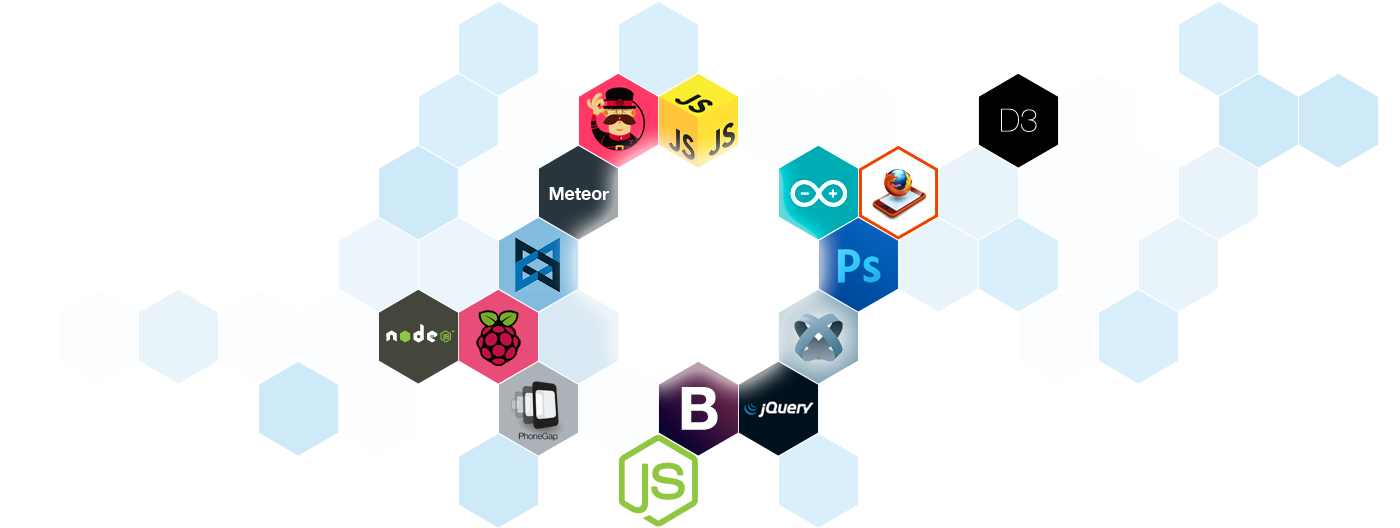
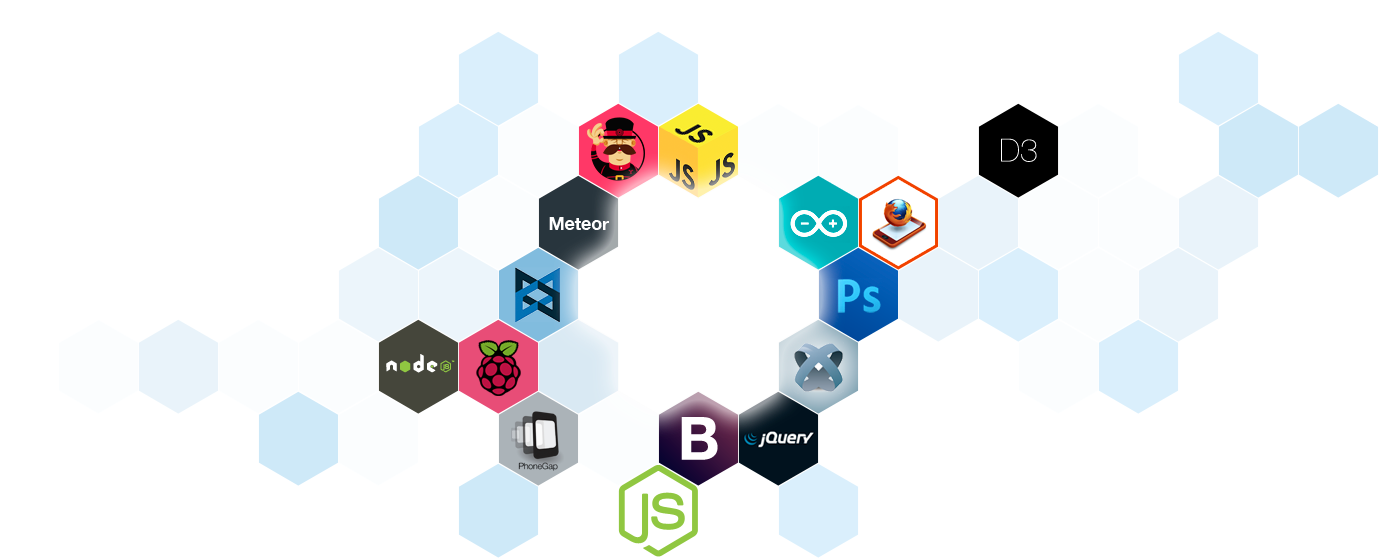
W-i-p for sticky navigation (not enabled yet).

diff --git a/static/css/320andup.css b/static/css/320andup.css
@@ -1860,6 +1860,9 @@ table tbody tr:hover th {
 .table-striped tbody tr:nth-child(odd) th {
   background-color: #c7ced6;
 }
+header {
+  position: relative;
+}
 h1 {
   text-align: center;
   line-height: 48px;
@@ -1870,6 +1873,7 @@ h1 {
   padding: 0;
   margin: 0;
   margin-bottom: 24px;
+  z-index: 2;
 }
 div#content {
   width: 100%;
@@ -1893,16 +1897,15 @@ header h1 {
   position: absolute;
   left: 50%;
   margin-left: -68px;
-  top: 110px;
+  top: 52px;
   background: none;
   border: none;
 }
 nav {
   padding: 0;
   background: rgba(255, 255, 255, 0.5);
-  border: 1px solid rgba(255, 255, 255, 0.75);
-  border-left: 0;
-  border-right: 0;
+  border: 0;
+  border-bottom: 1px solid rgba(255, 255, 255, 0.75);
   margin: 0;
 }
 nav ul {
@@ -2045,13 +2048,13 @@ div#map {
     position: absolute;
     left: 50%;
     margin-left: -235px;
-    top: 65px;
+    top: -25px;
   }
   article.hero {
     height: 500px;
   }
   article.hero div {
-    top: 188px;
+    top: 228px;
     margin: 0 -64px;
   }
   #logo {
@@ -2076,7 +2079,7 @@ div#map {
     position: absolute;
     left: 50%;
     margin-left: -290px;
-    top: 35px;
+    /* top: 35px; */
   }
   nav ul li {
     font-size: 16px;
@@ -2119,8 +2122,17 @@ div#map {
   header h1 {
     position: absolute;
     left: 50%;
-    top: 30px;
+    top: 0;
     margin-left: -360px;
+  }
+  nav {
+    position: absolute;
+    width: 100%;
+    z-index: 1;
+  }
+  nav.fixed {
+    position: fixed;
+    top: 0;
   }
   nav ul {
     text-align: right;
